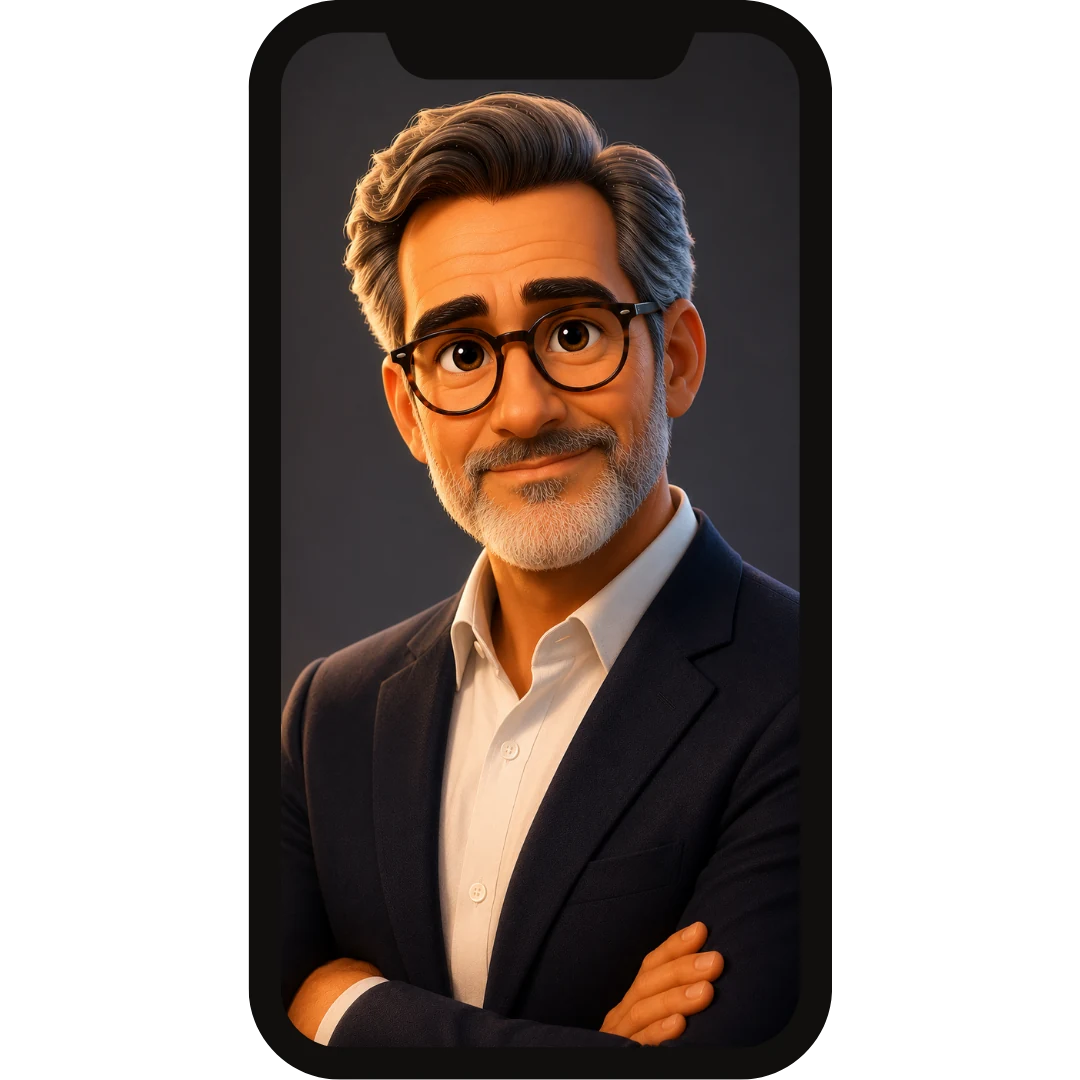
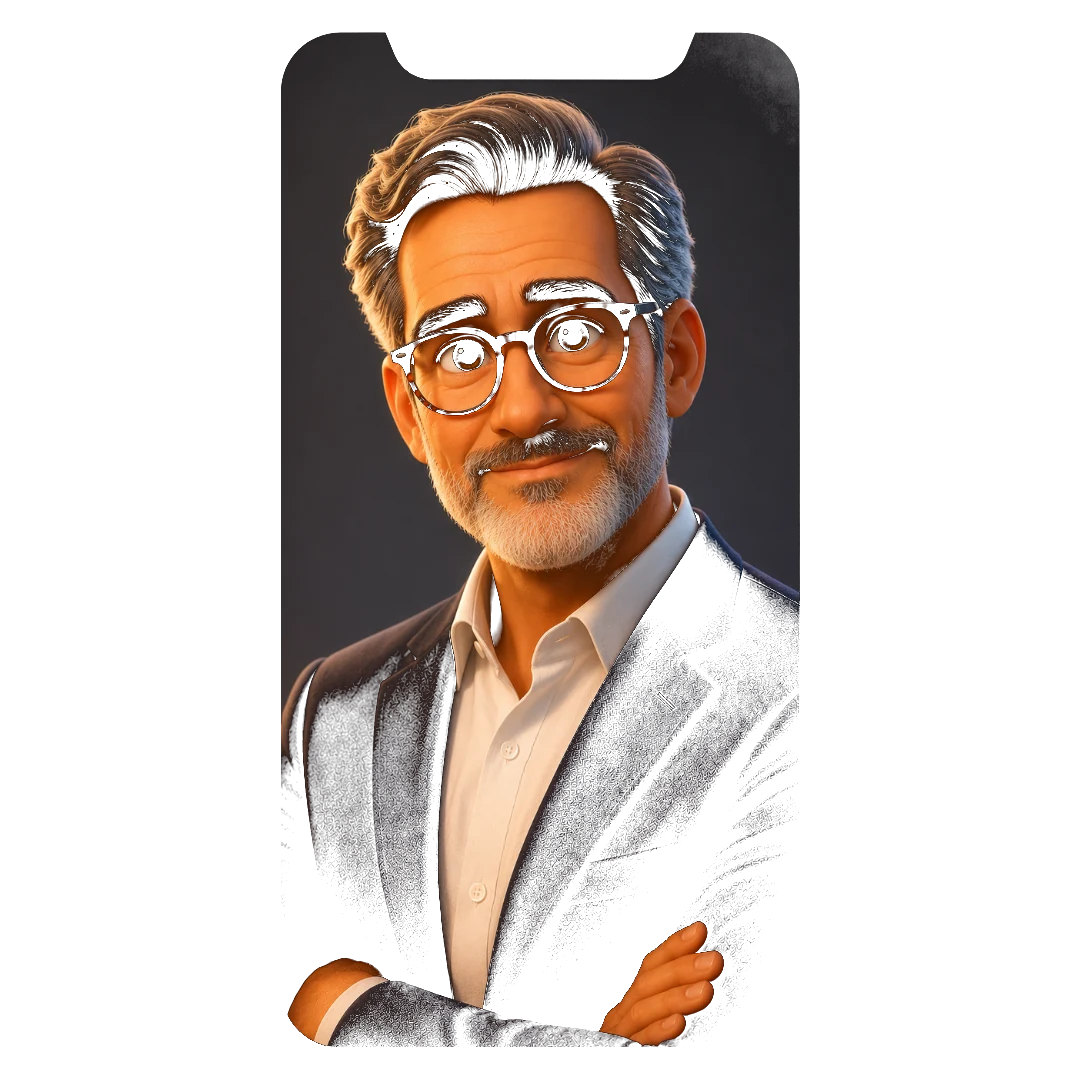
Remover tag 'Bonus principal' do Tecnico, transparencia das imagens do Tecnico e Suporte
- Tirar classe 'featured' do card do Tecnico (sem tag "Bonus principal" mais)
- Processar IA tecnico.png e suporte.png com PowerShell para remover fundo preto, gerar PNG com alpha, converter para WebP com transparencia
- Mudar fundo de .bonus-media.contain para cream (era preto), combina com imagens transparentes
- Adicionar modificador .align-bottom para a foto do Suporte ficar ancorada na parte de baixo do bloco (object-position bottom + altura 110% para o Rian aparecer maior)

diff --git a/index.html b/index.html
@@ -943,11 +943,16 @@ vturb-smartplayer video {
   display: block;
 }
 .bonus-media.contain {
-  background: linear-gradient(135deg, #0c0e13 0%, #15171d 100%);
+  background: linear-gradient(135deg, var(--paper-light) 0%, var(--paper-warm) 100%);
 }
 .bonus-media.contain img {
   object-fit: contain;
   padding: 12px;
+}
+.bonus-media.contain.align-bottom img {
+  object-position: bottom;
+  padding: 0;
+  height: 110%;
 }
 .bonus-media-placeholder {
   position: absolute; inset: 0;
@@ -2177,7 +2182,7 @@ vturb-smartplayer video {
     </div>
 
     <div class="bonuses-grid">
-      <div class="bonus-card featured">
+      <div class="bonus-card">
         <div class="bonus-media contain">
           <img src="/img/bonus-tecnico.webp" alt="O Técnico, IA exclusiva dos alunos" width="540" height="540" loading="lazy">
         </div>
@@ -2208,7 +2213,7 @@ vturb-smartplayer video {
       </div>
 
       <div class="bonus-card">
-        <div class="bonus-media contain">
+        <div class="bonus-media contain align-bottom">
           <img src="/img/bonus-suporte.webp" alt="Suporte direto por 30 dias" width="600" height="400" loading="lazy">
         </div>
         <div class="bonus-tag">Bônus 04</div>